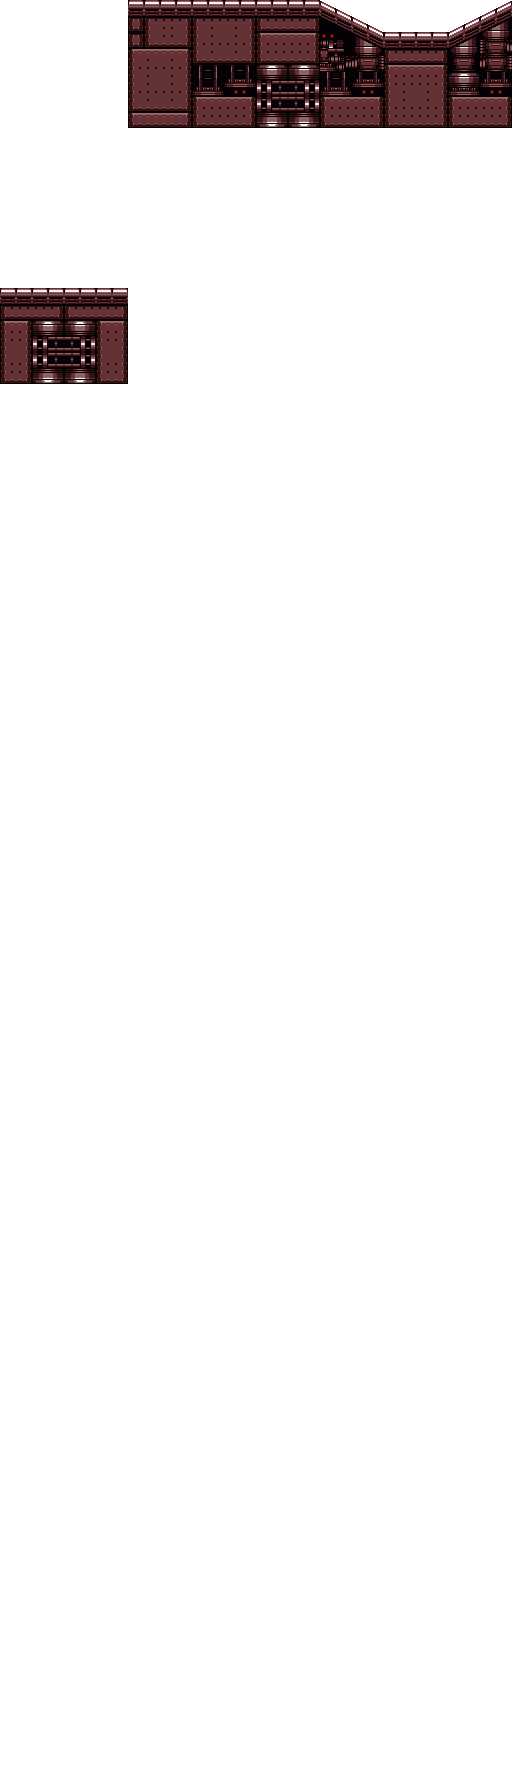
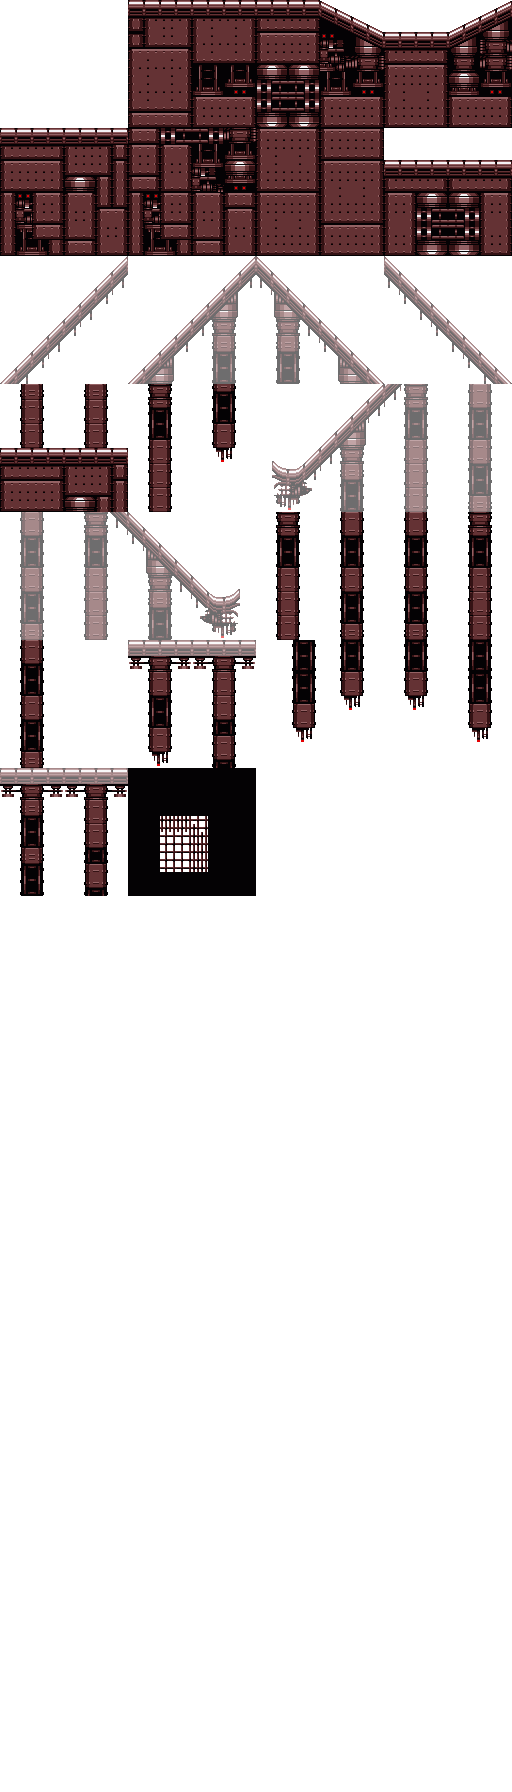
Add more tiles to R8

Changed region(s): [[0.0, 0.0625, 1.0, 0.5]]

diff --git a/assets/levels/R8/tiles16.tsx b/assets/levels/R8/tiles16.tsx
@@ -542,9 +542,23 @@
    </object>
   </objectgroup>
  </tile>
+ <tile id="119">
+  <objectgroup draworder="index" id="2">
+   <object id="1" x="0" y="0">
+    <polygon points="0,0 16,0 16,16 13.4348,15.9565 0,2.86957"/>
+   </object>
+  </objectgroup>
+ </tile>
  <tile id="127">
   <objectgroup draworder="index" id="3">
    <object id="2" x="0" y="0" width="16" height="16"/>
+  </objectgroup>
+ </tile>
+ <tile id="140">
+  <objectgroup draworder="index" id="2">
+   <object id="1" x="0" y="12.2889">
+    <polygon points="0,0 4.55556,3.6 0,3.71111"/>
+   </object>
   </objectgroup>
  </tile>
  <tile id="141">
@@ -558,6 +572,27 @@
   <objectgroup draworder="index" id="2">
    <object id="1" x="0" y="5">
     <polygon points="0,0 9,0 12.0435,-1.95652 16,-5 16.087,3.6087 10.9565,7.04348 6.43478,8.95652 0,8.86957"/>
+   </object>
+  </objectgroup>
+ </tile>
+ <tile id="149">
+  <objectgroup draworder="index" id="2">
+   <object id="1" x="16" y="12.29">
+    <polygon points="0,0 -4.55556,3.6 0,3.71111"/>
+   </object>
+  </objectgroup>
+ </tile>
+ <tile id="150">
+  <objectgroup draworder="index" id="2">
+   <object id="1" x="16" y="5">
+    <polygon points="0,0 -9,0 -12.0435,-1.95652 -16,-5 -16.087,3.6087 -10.9565,7.04348 -6.43478,8.95652 0,8.86957"/>
+   </object>
+  </objectgroup>
+ </tile>
+ <tile id="151">
+  <objectgroup draworder="index" id="2">
+   <object id="1" x="16" y="0">
+    <polygon points="0,0 -4.95652,0.0434783 -7.91304,2.78261 -13.913,4.86957 -15.9565,5 -16,14 -8.08696,13.2174 -4,10.1739 -0.0434783,6.82609"/>
    </object>
   </objectgroup>
  </tile>
